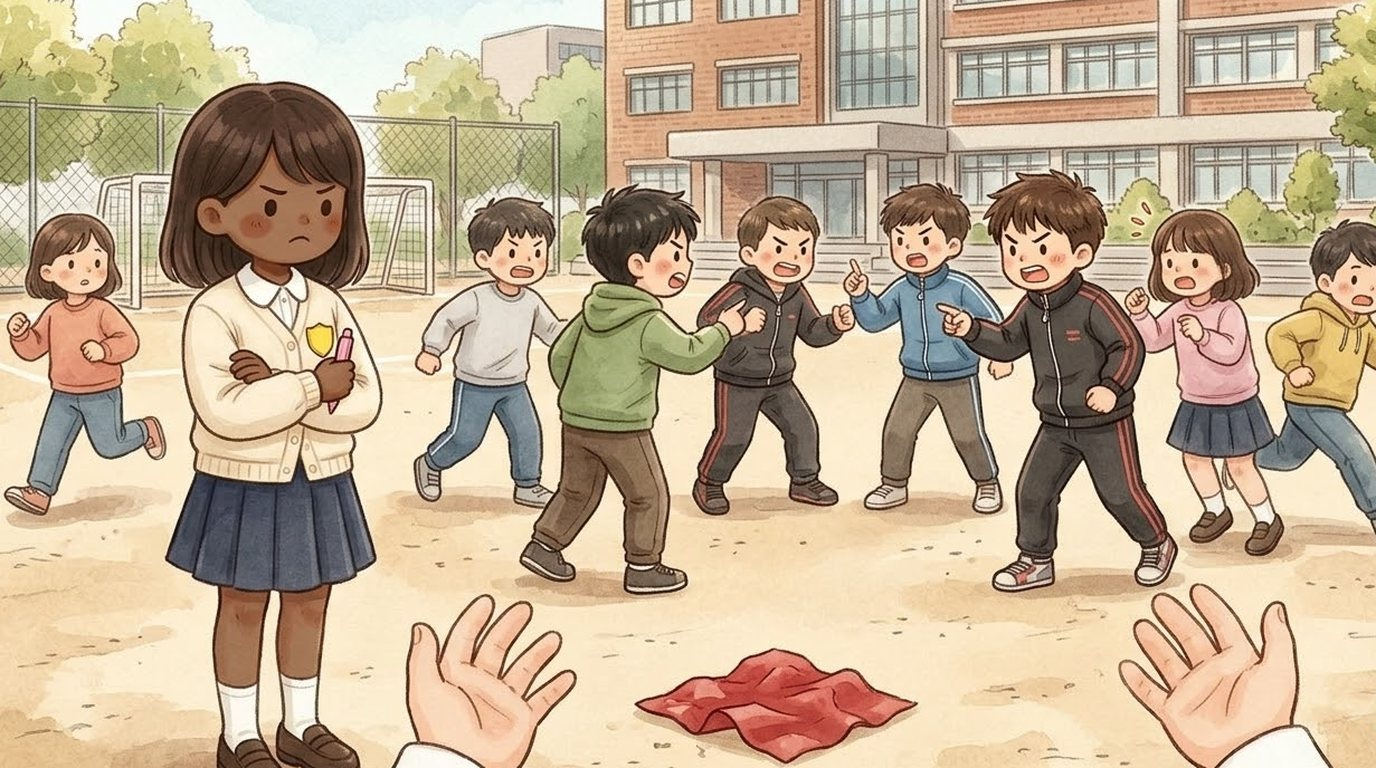
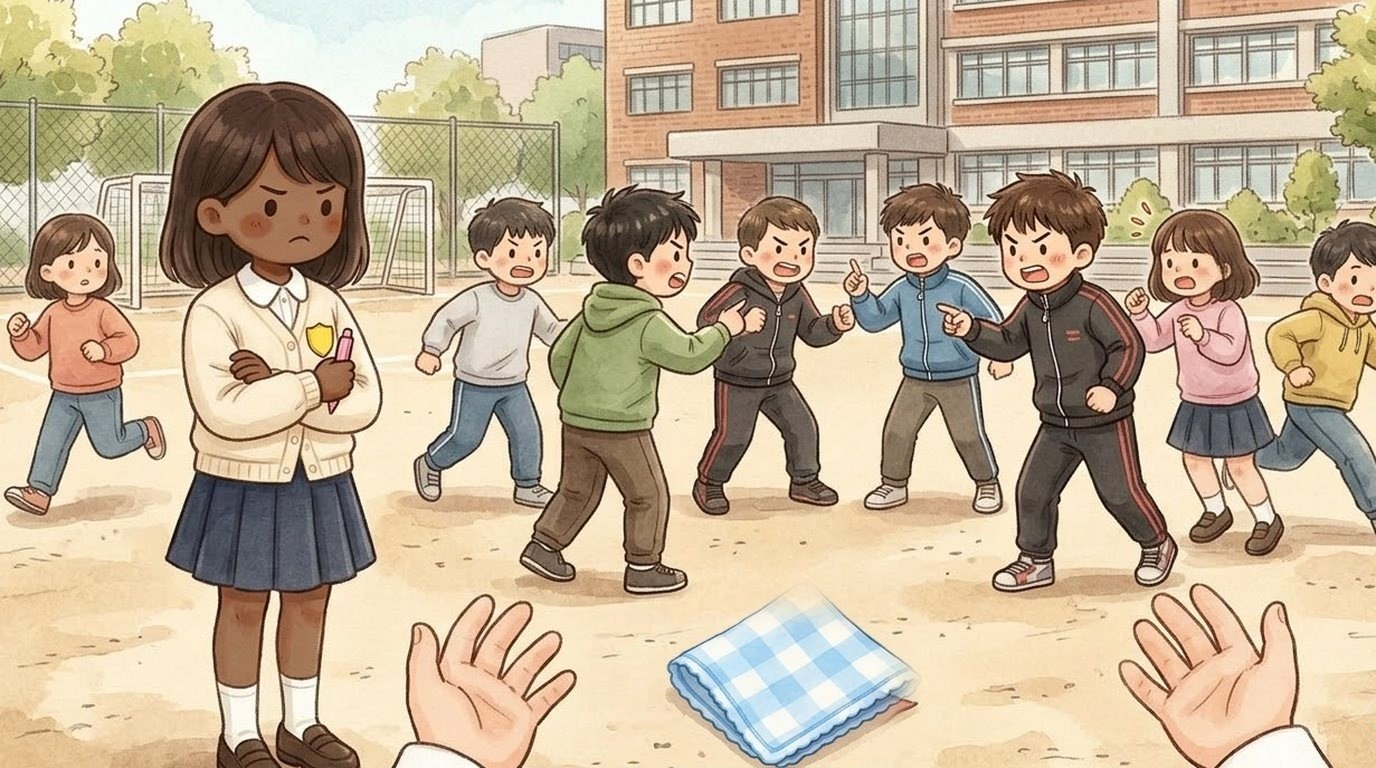
Sua check fixes (days 2-7 AI review): meeting 6 the handkerchief on the field is bigger to find, and the story picture sua_06 now shows the same light-blue checked handkerchief instead of a red one

Changed region(s): [[0.4375, 0.7812, 0.6875, 1.0]]

diff --git a/index.html b/index.html
@@ -119,14 +119,14 @@ body,button{word-break:keep-all;overflow-wrap:break-word}
 <div id="fader"></div>
 <script>
 // same address, newest version: if the page this phone has kept is older than the one online, fetch the new one and reopen
-const BUILD='1107115739';
+const BUILD='1107120214';
 try{fetch(location.pathname,{cache:'no-store'}).then(r=>r.text()).then(t=>{const m=t.match(/const BUILD='(\d+)'/);if(m&&m[1]!==BUILD&&sessionStorage.getItem('upd')!==m[1]){sessionStorage.setItem('upd',m[1]);fetch(location.pathname,{cache:'reload'}).then(()=>location.reload())}}).catch(()=>{})}catch(e){}
 </script>
-<script src="i18n.js?v=1107115739"></script>
-<script src="i18n_prologue_v2.js?v=1107115739"></script>
-<script src="day2/i18n_engine.js?v=1107115739"></script>
-<script src="day2/data.js?v=1107115739"></script>
-<script src="day3/data.js?v=1107115739"></script>
+<script src="i18n.js?v=1107120214"></script>
+<script src="i18n_prologue_v2.js?v=1107120214"></script>
+<script src="day2/i18n_engine.js?v=1107120214"></script>
+<script src="day2/data.js?v=1107120214"></script>
+<script src="day3/data.js?v=1107120214"></script>
 <script>
 // ---------- data ----------
 const MW=1672,MH=941,KID=180;
@@ -549,34 +549,34 @@ function pickHero(){const m=document.getElementById('modal'),c=document.getEleme
  c.innerHTML=`<h2>${tr('전학생 반장되기')}</h2><p>${tr('한국말이 아직 서툰 전학생,<br>반장 선거에 나가다.')}</p><p style="margin-top:14px">${tr('누구로 할까요?')}</p>${(()=>{const s=loadSave();return s&&s.day>=2&&s.mode===UI+'-'+LANG?`<p><button class="big" id="cont">${tr('{n}일차부터 이어 하기').replace('{n}',s.day)}</button></p>`:''})()}<div class="pick heroes"><button data-h="hero_f"><img src="faces/hero_f_smile.jpg" alt="여자 주인공">${heroName(1)}</button><button data-h="hero_m"><img src="faces/hero_m_smile.jpg" alt="남자 주인공">${heroName(0)}</button></div>`;
  m.classList.add('on');{const cb=document.getElementById('cont');if(cb)cb.onclick=()=>{const s=loadSave();HERO=s.hero;Object.assign(HEART,s.heart||{});(s.found||[]).forEach(k=>FOUND.add(k));HEART_D1={...HEART};chime();(typeof contGame==='function'?contGame(s):startDay(Math.min(s.day,Object.keys(window.D3||{}).length?3:2)))}}c.querySelectorAll('.pick button').forEach(b=>b.onclick=()=>{HERO=b.dataset.h;m.classList.remove('on');chime();bgm('day');load('home_am');say([['nar','','이사 온 다음 날 아침. 아직 풀지 못한 상자들이 쌓여 있다.'],['think','sad','(오늘부터 새 학교야. 여기 말도 아직 서툰데…….)'],['think','smile','({m}한테 인사하고 학교 가야지.)']],morning)})}
 </script>
-<script src="day2/engine.js?v=1107115739"></script>
-<script src="day2/ep_minho.js?v=1107115739"></script>
-<script src="day2/meet.js?v=1107115739"></script>
-<script src="day2/ep_sua.js?v=1107115739"></script>
-<script src="day2/ep_hangyeol.js?v=1107115739"></script>
-<script src="day2/ep_siwoo.js?v=1107115739"></script>
-<script src="day2/ep_haram.js?v=1107115739"></script>
-<script src="day2/ep_jiho.js?v=1107115739"></script>
-<script src="day2/ep_hyeeun.js?v=1107115739"></script>
-<script src="day2/ep_haneul.js?v=1107115739"></script>
-<script src="day2/ep_junho.js?v=1107115739"></script>
-<script src="day2/ep_yuna.js?v=1107115739"></script>
-<script src="day2/ep_yena.js?v=1107115739"></script>
-<script src="day2/ep_haeun.js?v=1107115739"></script>
-<script src="day2/ep_youngmin.js?v=1107115739"></script>
-<script src="day2/ep_seah.js?v=1107115739"></script>
-<script src="day2/ep_jihoon.js?v=1107115739"></script>
-<script src="words_ja_ru.js?v=1107115739"></script>
-<script src="day2/mybag.js?v=1107115739"></script>
-<script src="day2/wordpics.js?v=1107115739"></script>
-<script src="day2/spots.js?v=1107115739"></script>
-<script src="day2/textfit.js?v=1107115739"></script>
-<script src="day2/tester.js?v=1107115739"></script>
-<script src="day2/ux.js?v=1107115739"></script>
-<script src="day2/tapword.js?v=1107115739"></script>
-<script src="day2/review.js?v=1107115739"></script>
-<script src="day2/ep_ending.js?v=1107115739"></script>
-<script src="day2/ending.js?v=1107115739"></script>
+<script src="day2/engine.js?v=1107120214"></script>
+<script src="day2/ep_minho.js?v=1107120214"></script>
+<script src="day2/meet.js?v=1107120214"></script>
+<script src="day2/ep_sua.js?v=1107120214"></script>
+<script src="day2/ep_hangyeol.js?v=1107120214"></script>
+<script src="day2/ep_siwoo.js?v=1107120214"></script>
+<script src="day2/ep_haram.js?v=1107120214"></script>
+<script src="day2/ep_jiho.js?v=1107120214"></script>
+<script src="day2/ep_hyeeun.js?v=1107120214"></script>
+<script src="day2/ep_haneul.js?v=1107120214"></script>
+<script src="day2/ep_junho.js?v=1107120214"></script>
+<script src="day2/ep_yuna.js?v=1107120214"></script>
+<script src="day2/ep_yena.js?v=1107120214"></script>
+<script src="day2/ep_haeun.js?v=1107120214"></script>
+<script src="day2/ep_youngmin.js?v=1107120214"></script>
+<script src="day2/ep_seah.js?v=1107120214"></script>
+<script src="day2/ep_jihoon.js?v=1107120214"></script>
+<script src="words_ja_ru.js?v=1107120214"></script>
+<script src="day2/mybag.js?v=1107120214"></script>
+<script src="day2/wordpics.js?v=1107120214"></script>
+<script src="day2/spots.js?v=1107120214"></script>
+<script src="day2/textfit.js?v=1107120214"></script>
+<script src="day2/tester.js?v=1107120214"></script>
+<script src="day2/ux.js?v=1107120214"></script>
+<script src="day2/tapword.js?v=1107120214"></script>
+<script src="day2/review.js?v=1107120214"></script>
+<script src="day2/ep_ending.js?v=1107120214"></script>
+<script src="day2/ending.js?v=1107120214"></script>
 <script>
 // the goal shows big for a few seconds, then folds into a small pill (tap it to open it again)
 {const g=document.getElementById('goal');let t=null;const big=()=>{g.classList.remove('mini');clearTimeout(t);t=setTimeout(()=>g.classList.add('mini'),4000)};

diff --git a/day2/ep_sua.js b/day2/ep_sua.js
@@ -267,7 +267,7 @@ EP.sua=[
   ['nar','','아이: 「반칙이야! 잡히면 같은 편이랬잖아!」'],
   ['nar','','아이: 「같은 편 되면 뭐 해? 그다음엔?」'],
   ['nar','','잡힌 아이들이 어디로 가야 할지 몰라 우왕좌왕했다. 원이 흐트러지고, 여기저기서 말다툼이 났다. {@handkerchief}이 바닥에 떨어져 있었다.'],
-  {lay:[['handkerchief',1000,650,40]]},
+  {lay:[['handkerchief',1000,650,60]]},
   ['nar','','나는 수아에게 갔다. 수아는 팔짱을 끼고 서 있었다.'],
   ['sua','angry','이거 안 되겠다. 그냥 피구 하자.'],
   ['me','surprised','잠깐만…….'],
